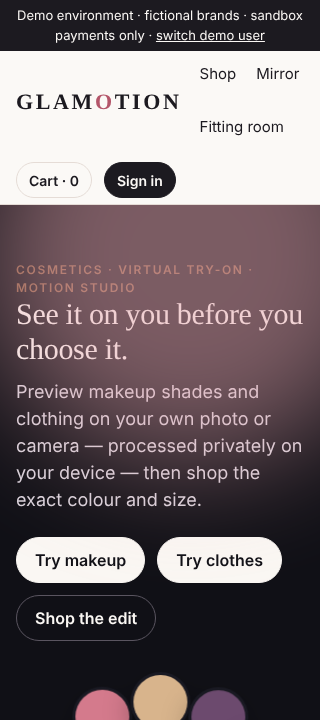
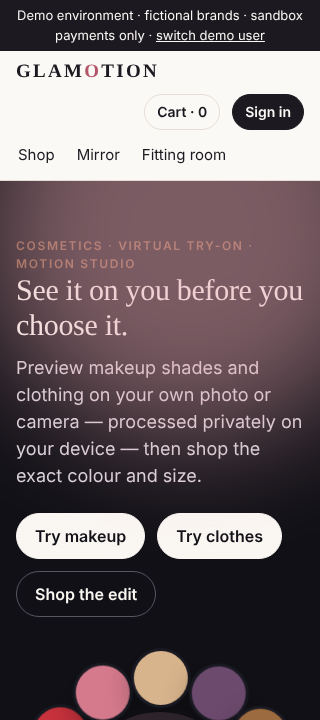
Fix mobile header layout (nav on its own scrollable row)
Claude-Session: https://claude.ai/code/session_016XAkFesfbQee2aGxaDXSHt

diff --git a/apps/web/src/app/globals.css b/apps/web/src/app/globals.css
@@ -196,3 +196,12 @@ footer.gm-footer { border-top: 1px solid var(--gm-border); padding: 32px 0; marg
   .gm-fit-note { position: static; text-align: center; margin-top: 8px; }
 }
 @media (prefers-reduced-motion: reduce) { .gm-fit-card, .gm-fit-figure { transition: none; animation: none; } }
+
+/* Mobile header: logo + actions on one row, nav scrolls horizontally below. */
+@media (max-width: 700px) {
+  .gm-header-inner { gap: 8px 12px; }
+  .gm-header-inner > .gm-row { margin-left: auto; }
+  .gm-nav { order: 3; flex: 1 0 100%; flex-wrap: nowrap; overflow-x: auto; gap: 18px; scrollbar-width: none; }
+  .gm-nav a { white-space: nowrap; }
+  .gm-logo { font-size: 19px; }
+}
